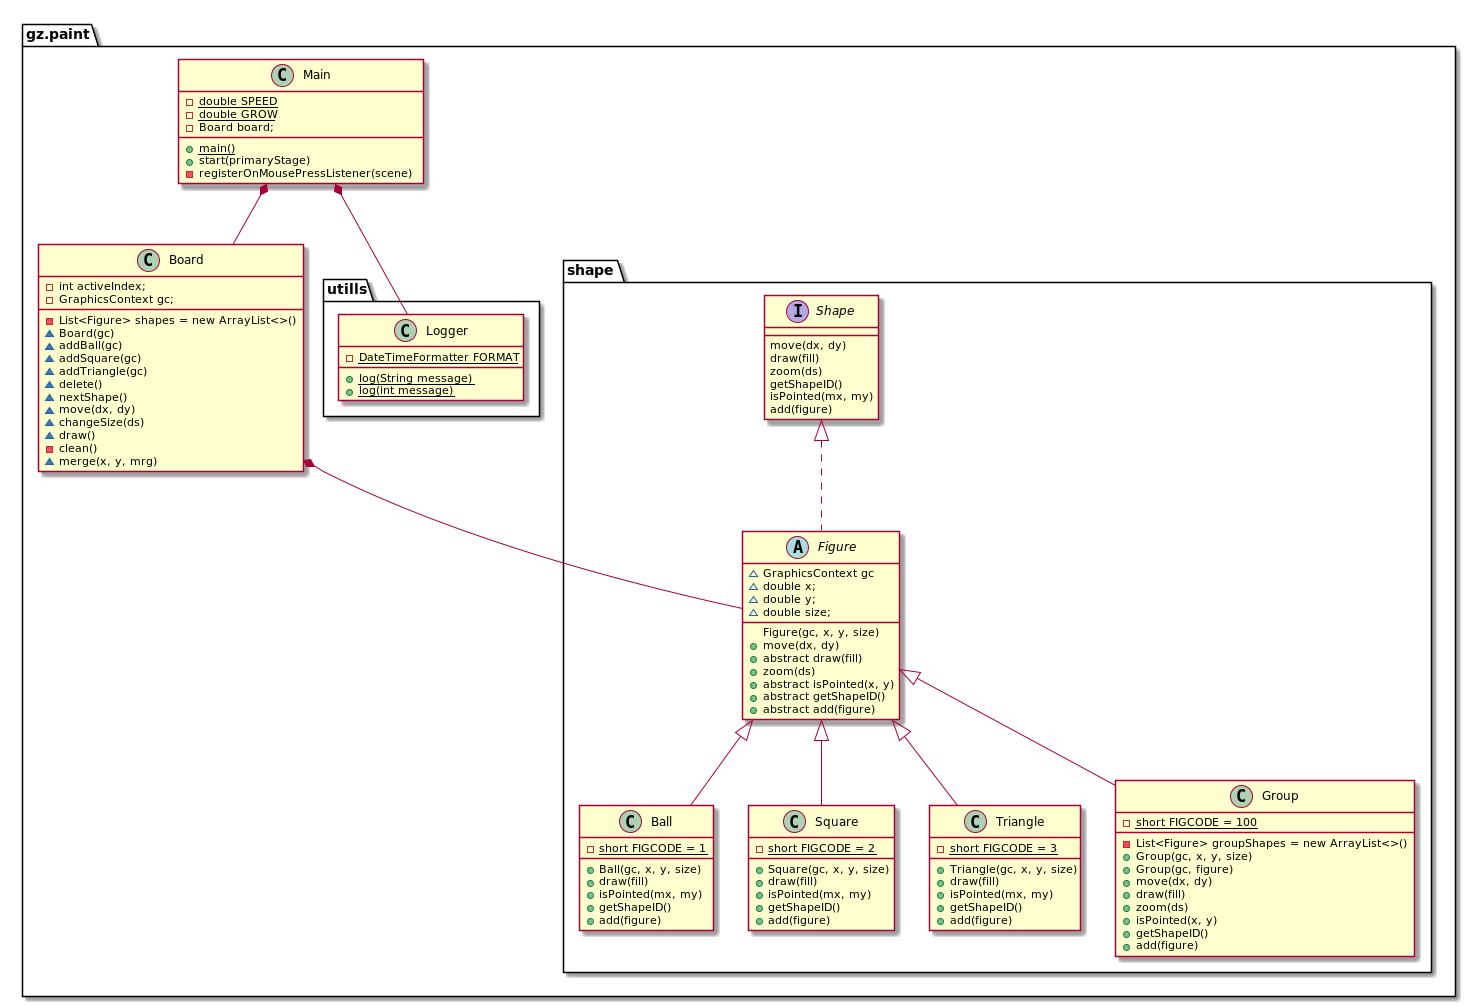
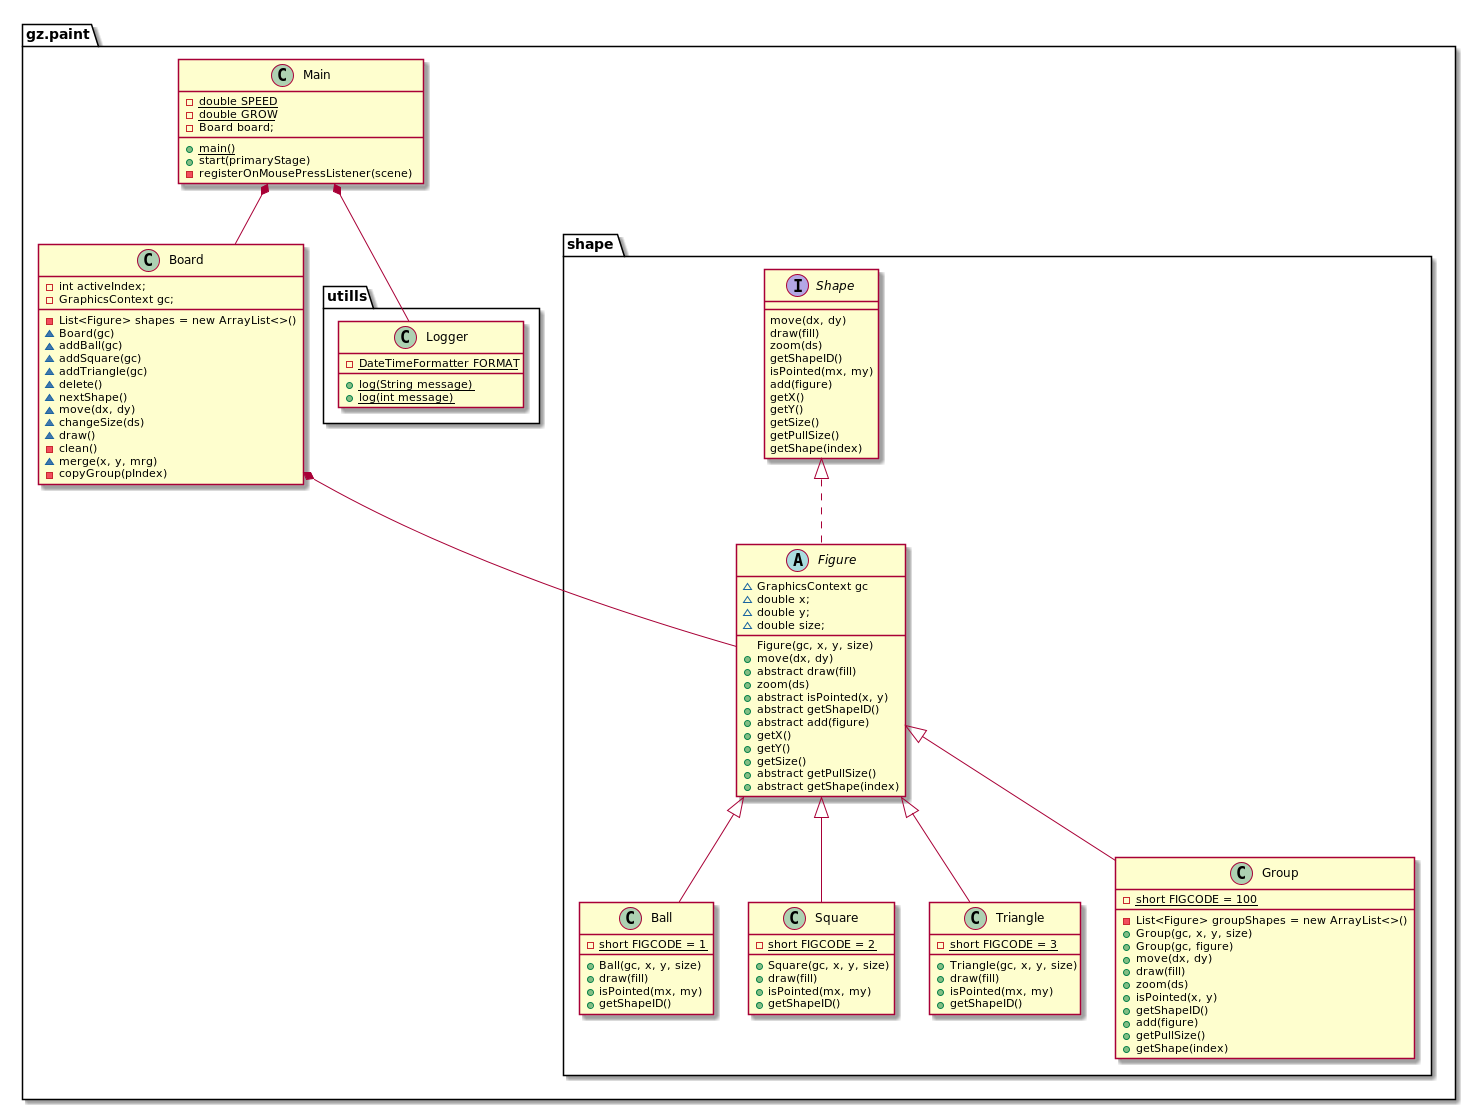
Реалозовано клонирование, переработана агрегация

diff --git a/src/gz/paint/Board.java b/src/gz/paint/Board.java
@@ -69,13 +69,6 @@ class Board {
         for (int i = 0; i < shapes.size(); i++) {
             shapes.get(i).draw(i == activeIndex);
         }
-
-        // Temporary code
-        System.out.printf("Board status: activeIndex=%d\n", activeIndex);
-        for (int i = 0; i < shapes.size(); i++) {
-            System.out.printf("shape[%d]: getShapeID=%d\n", i, shapes.get(i).getShapeID());
-        }
-
     }
 
     private void clean() {
@@ -93,16 +86,12 @@ class Board {
         }
         if (pointedIndex == -1) return;                 // No one figure is pointed
 
-        System.out.printf("activeIndex: %d, pointedIndex: %d.\n", activeIndex, pointedIndex);
-
         /* The merging section */
         if ((pointedIndex != activeIndex) && mrg) {
-            if (shapes.get(activeIndex).add(shapes.get(pointedIndex))) {        // Adding selected figure into existing Group
-                shapes.remove(pointedIndex);                                    // Removing the link from the board list
-                if (activeIndex > pointedIndex) {
-                    activeIndex--;                                              // Correcting the activeIndex
-                }
-            } else {
+            int activID = shapes.get(activeIndex).getShapeID();
+            int pointedID = shapes.get(pointedIndex).getShapeID();
+
+            if ((activID != 0) && (pointedID != 0)) {
                 shapes.add(new Group(gc, shapes.get(activeIndex)));             // Creating a new Group with active figure
                 shapes.get(shapes.size() - 1).add(shapes.get(pointedIndex));    // Adding pointed figure
                 if (activeIndex > pointedIndex) {                               // Detecting a bigger index
@@ -112,16 +101,70 @@ class Board {
                     shapes.remove(pointedIndex);
                     shapes.remove(activeIndex);
                 }
-                activeIndex = shapes.size() - 1;                                // Correcting the activeIndex
+                activeIndex = shapes.size() - 1;                                // New activeIndex
+            } else {
+                if ((activID == 0) && (pointedID == 0)) {
+                    copyGroup(pointedIndex);         // Copying of all figures from the pointed Group to the active Group
+                } else {
+                    if (activID != 0) {
+                        int i = activeIndex;
+                        activeIndex = pointedIndex;
+                        pointedIndex = i;
+                    }
+                    shapes.get(activeIndex).add(shapes.get(pointedIndex));      // Adding simple figure to the Group
+                }
+                shapes.remove(pointedIndex);                                    // Removing the Group from the board list
+                if (activeIndex > pointedIndex) {
+                    activeIndex--;                                              // New activeIndex
+                }
             }
-            draw();
         }
 
         /* The cloning section */
-        if ((pointedIndex == activeIndex) && !mrg) {
-
-
+        if (!mrg) {
+            double cX = shapes.get(pointedIndex).getX();
+            double cY = shapes.get(pointedIndex).getY();
+            double cSize = shapes.get(pointedIndex).getSize();
+            activeIndex = shapes.size();                 // The activeIndex is preset for the new Group (OUT OF BOUND !!!)
+            switch (shapes.get(pointedIndex).getShapeID()) {
+                case 1: /* Ball */
+                    shapes.add(new Ball(gc, cX, cY, cSize));
+                    break;
+                case 2: /* Square */
+                    shapes.add(new Square(gc, cX, cY, cSize));
+                    break;
+                case 3: /* Triangle */
+                    shapes.add(new Triangle(gc, cX, cY, cSize));
+                    break;
+                case 0: /* Set of shapes */
+                    shapes.add(new Group(gc, 0, 0, 0));              // Creating a new empty Group
+                    copyGroup(pointedIndex);
+                    break;
+            }
+            shapes.get(activeIndex).move(3, 3);
         }
 
+        draw();
+
     }
+
+    private void copyGroup(int pIndex) {
+        for (int i = 0; i < shapes.get(pIndex).getPullSize(); i++) {
+            double cX = shapes.get(pIndex).getShape(i).getX();
+            double cY = shapes.get(pIndex).getShape(i).getY();
+            double cSize = shapes.get(pIndex).getShape(i).getSize();
+            switch (shapes.get(pIndex).getShape(i).getShapeID()) {
+                case 1:
+                    shapes.get(activeIndex).add(new Ball(gc, cX, cY, cSize));
+                    break;
+                case 2:
+                    shapes.get(activeIndex).add(new Square(gc, cX, cY, cSize));
+                    break;
+                case 3:
+                    shapes.get(activeIndex).add(new Triangle(gc, cX, cY, cSize));
+                    break;
+            }
+        }
+    }
+
 }

diff --git a/src/gz/paint/shape/Shape.java b/src/gz/paint/shape/Shape.java
@@ -2,16 +2,80 @@ package gz.paint.shape;
 
 public interface Shape {
 
+    /**
+     * Moves shape position.
+     * @param dx value for increase/decrease X-position of shape
+     * @param dy value for increase/decrease Y-position of shape
+     */
     void move(double dx, double dy);
 
+    /**
+     * Rendering the shape.
+     * @param fill true - shape is filled
+     *             false - shapeis not filled
+     */
     void draw(Boolean fill);
 
+    /**
+     *
+     * @param ds
+     */
     void zoom(double ds);
 
+    /**
+     * Returns shape ID for operations where it need to know.
+     * @return shape ID: 0 - Set of shapes (Group)
+     *                   1 - Ball
+     *                   2 - Square
+     *                   3 - Triangle
+     */
     int getShapeID();
 
+    /**
+     * Returns true if mouse pointer coordinates within the shape.
+     * @param mx X-position of mouse pointer
+     * @param my Y-position of mouse pointer
+     * @return  true if mouse pointer coordinates within the shape
+     */
     Boolean isPointed(int mx, int my);
 
+    /**
+     * Adds specified shape to Set of shapes.
+     * @param figure for adding
+     * @return true if the method was invoked for Set of shapes (Group: shape ID = 0)
+     *         false if the method was invoked for shape (shape ID = 1, 2, 3)
+     */
     Boolean add(Figure figure);
+
+    /**
+     * Returns X-position of shape.
+     * @return X-position of shape
+     */
+    double getX();
+
+    /**
+     * Returns Y-position of shape.
+     * @return Y-position of shape
+     */
+    double getY();
+
+    /**
+     * Returns size of the shape. For Set of shapes value is not actual.
+     * @return size of the shape
+     */
+    double getSize();
+
+    /**
+     * Returns quantity of shapes in the Group.
+     * @return quantity of shapes in the Group
+     */
+    int getPullSize();
+
+    /**
+     * Returns pointer to the shape with specified index in the Group.
+     * @param index
+     * @return pointer to the shape with specified index in the Group.
+     */
+    Figure getShape(int index);
 
 }

diff --git a/src/gz/paint/Main.java b/src/gz/paint/Main.java
@@ -4,8 +4,8 @@
  * 2. (+) Можно переключаться между фигурами - активная фигура выделена цветом, у остальных только контур.
  * 3. (+) Можно удалять фигуры (последняя оставшаяся фигура не должна удаляться).
  * 4. (+) Активную фигуру можно двигать.
- * 5. Агрегация: несколько фигур можно объединить в одну.
- * 6. Фигуры можно клонировать.
+ * 5. (+) Агрегация: несколько фигур можно объединить в одну.
+ * 6. (+) Фигуры можно клонировать.
  * 7. (+) Можно менять размер фигур.
  * 8. Реализовать сохраниение/загрузку в файл.
  * 9. При движении фигуры если она пересекается с другой фигурой менять у активной фигуры цвет.

diff --git a/src/gz/paint/shape/Figure.java b/src/gz/paint/shape/Figure.java
@@ -9,10 +9,6 @@ public abstract class Figure implements Shape {
     double y;
     double size;
 
-    Figure(){
-
-    }
-
     Figure(GraphicsContext gc, double x, double y, double size) {
         this.gc = gc;
         this.x = x;
@@ -45,5 +41,26 @@ public abstract class Figure implements Shape {
 
     @Override
     public abstract Boolean add(Figure figure);
+
+    @Override
+    public double getX() {
+        return x;
+    }
+
+    @Override
+    public double getY() {
+        return y;
+    }
+
+    @Override
+    public double getSize() {
+        return size;
+    }
+
+    @Override
+    public abstract int getPullSize();
+
+    @Override
+    public abstract Figure getShape(int index);
 
 }

diff --git a/src/gz/paint/shape/Group.java b/src/gz/paint/shape/Group.java
@@ -7,7 +7,7 @@ import java.util.List;
 
 public class Group extends Figure {
 
-    private static final short FIGCODE = 100;
+    private static final short FIGCODE = 0;
 
     private List<Figure> groupShapes = new ArrayList<>();
 
@@ -58,6 +58,17 @@ public class Group extends Figure {
     public Boolean add(Figure figure) {
         groupShapes.add(figure);
         return true;
+    }
+
+    @Override
+    public int getPullSize() {
+        return groupShapes.size();
+    }
+
+    @Override
+    public Figure getShape(int index) {
+        if (groupShapes.isEmpty() || (index >= groupShapes.size())) return null;
+        return groupShapes.get(index);
     }
 
 }

diff --git a/src/gz/paint/shape/Triangle.java b/src/gz/paint/shape/Triangle.java
@@ -50,4 +50,14 @@ public class Triangle extends Figure {
         return false;
     }
 
+    @Override
+    public int getPullSize() {
+        return 0;
+    }
+
+    @Override
+    public Figure getShape(int index) {
+        return null;
+    }
+
 }

diff --git a/src/gz/paint/shape/Square.java b/src/gz/paint/shape/Square.java
@@ -37,4 +37,14 @@ public class Square extends Figure {
         return false;
     }
 
+    @Override
+    public int getPullSize() {
+        return 0;
+    }
+
+    @Override
+    public Figure getShape(int index) {
+        return null;
+    }
+
 }

diff --git a/src/gz/paint/shape/Ball.java b/src/gz/paint/shape/Ball.java
@@ -37,4 +37,14 @@ public class Ball extends Figure {
         return false;
     }
 
+    @Override
+    public int getPullSize() {
+        return 0;
+    }
+
+    @Override
+    public Figure getShape(int index) {
+        return null;
+    }
+
 }

diff --git a/README.md b/README.md
@@ -6,7 +6,7 @@
  3. (+) Можно удалять фигуры (последняя оставшаяся фигура не должна удаляться).
  4. (+) Активную фигуру можно двигать.
  5. (+) Агрегация: несколько фигур можно объединить в одну.
- 6. Фигуры можно клонировать.
+ 6. (+) Фигуры можно клонировать.
  7. (+) Можно менять размер фигур.
  8. Реализовать сохраниение/загрузку в файл.
  9. При движении фигуры если она пересекается с другой фигурой менять у активной фигуры цвет.
